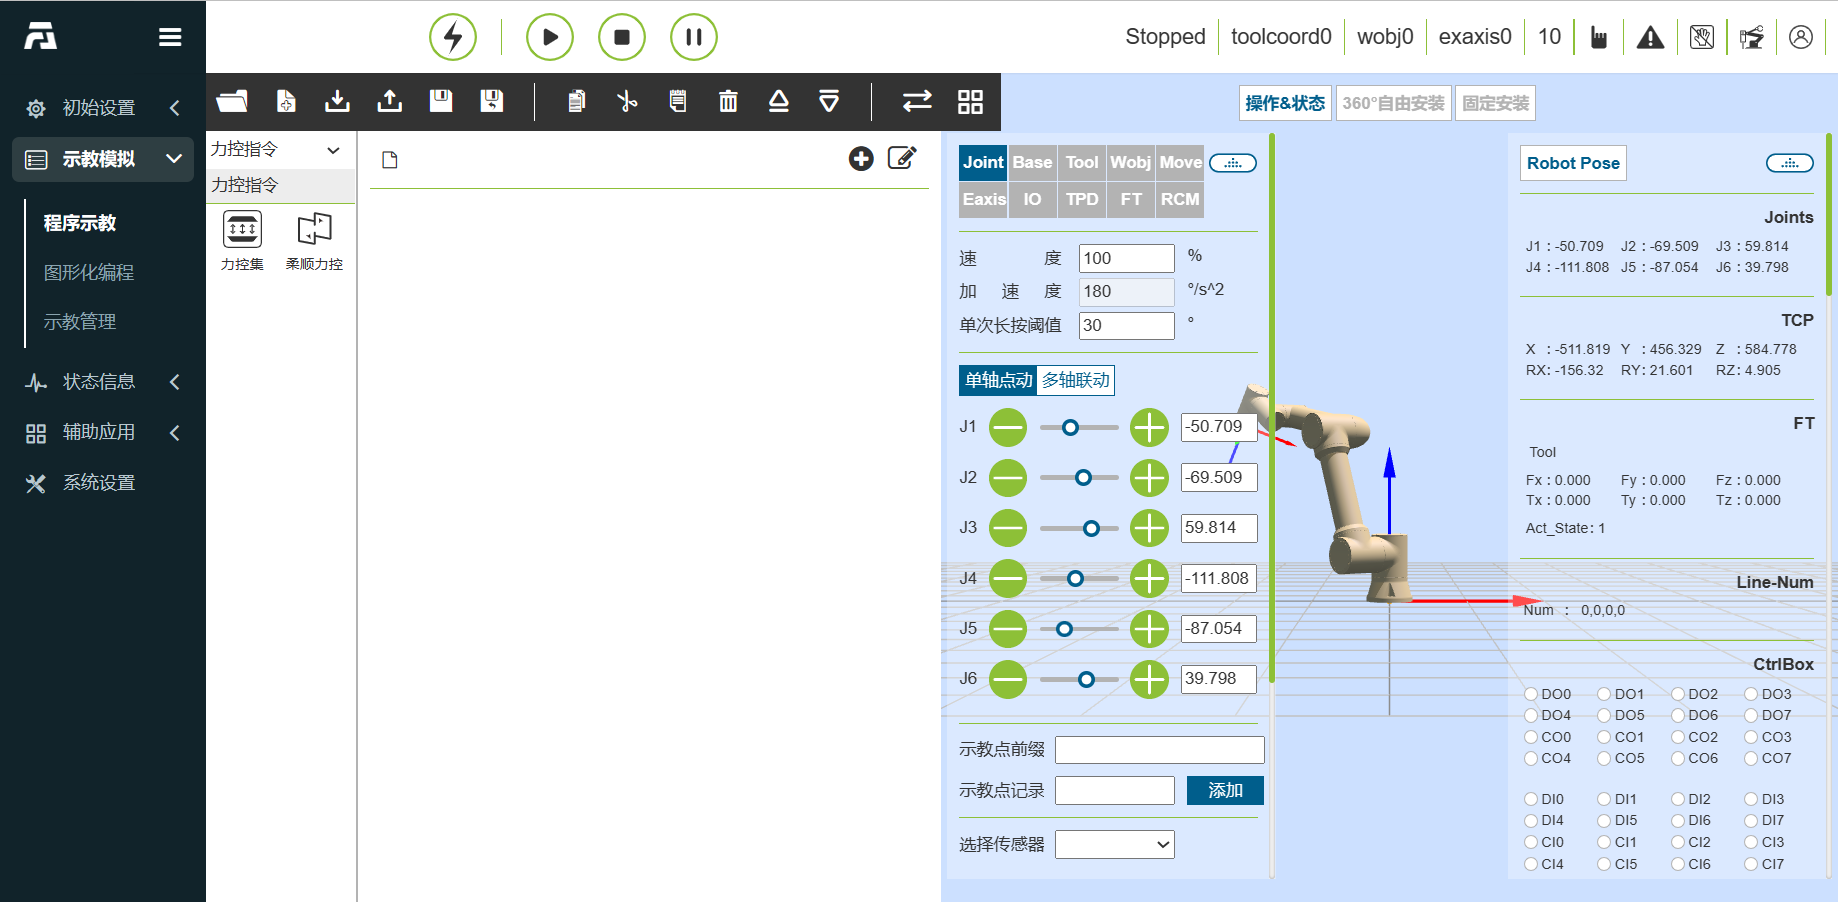
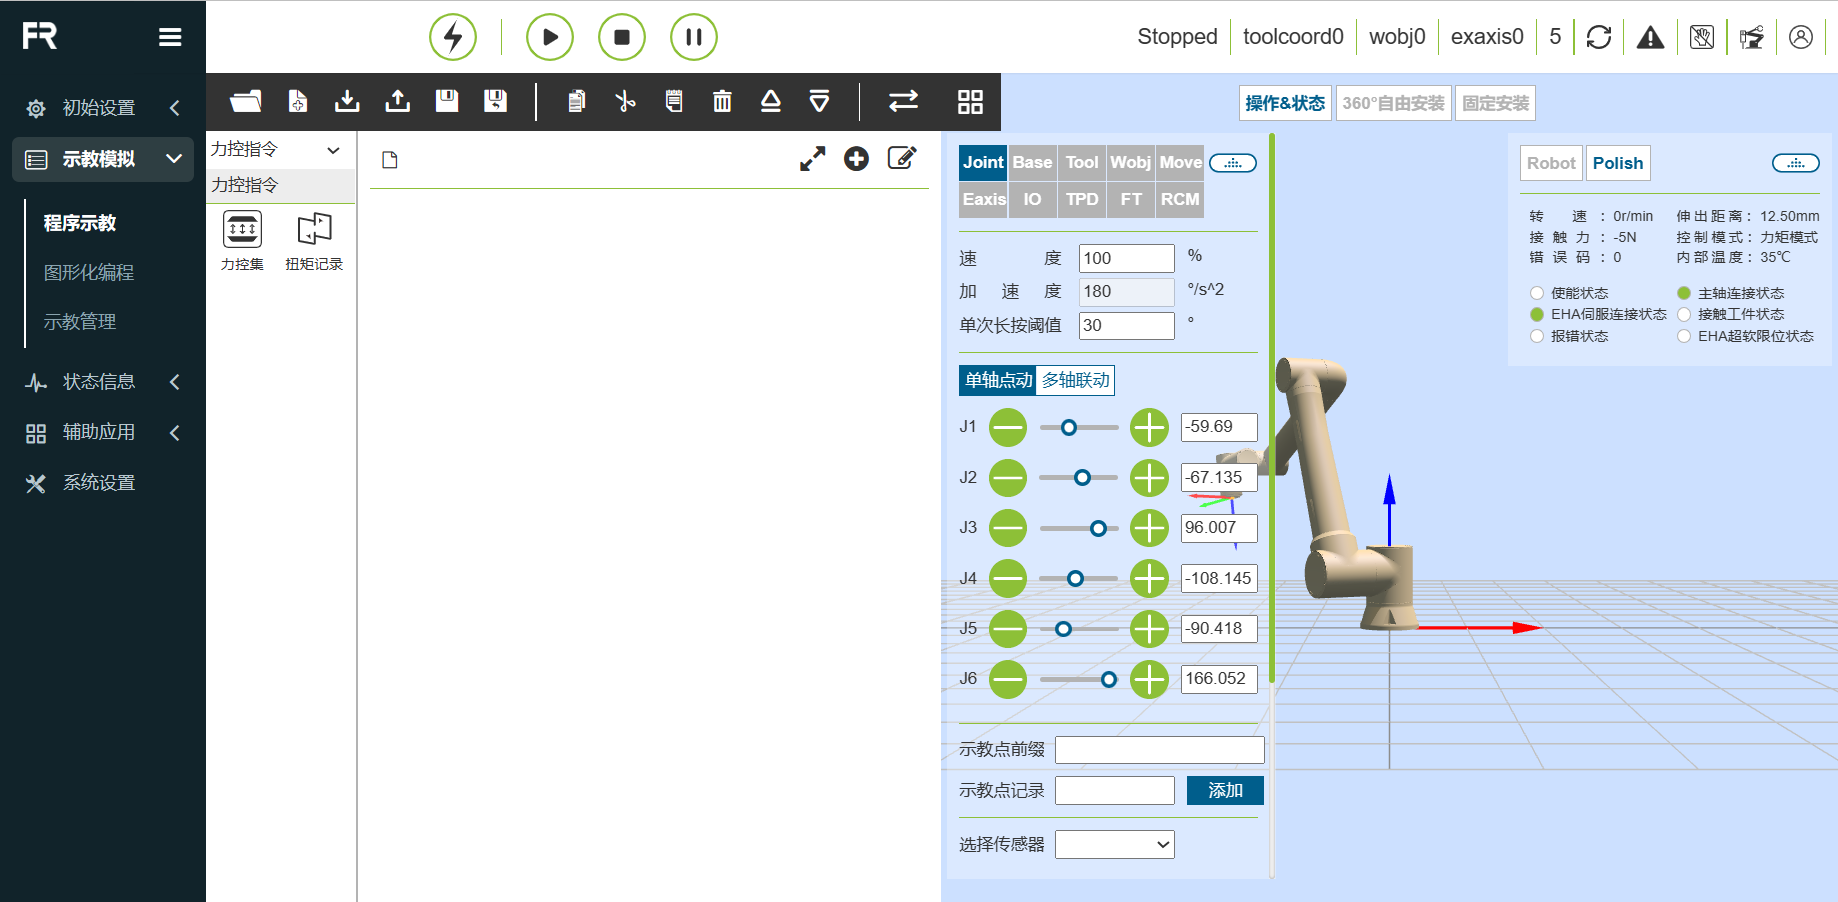
Update new teaching_pendant 8/17

diff --git a/source/CobotsManual/teaching_pendant_software.rst b/source/CobotsManual/teaching_pendant_software.rst
@@ -1831,9 +1831,9 @@ F/T命令
 Torque命令
 ++++++++++++++++
 
-点击“柔顺力控”图标进入Torque命令编辑界面
+点击“扭矩记录”图标进入Torque命令编辑界面
 
-该指令为力柔顺控制指令，通过该指令可以让机器人在力控训练过程中，当力大于一定值时，机械臂能够调整自己的轨迹使力减小；力小于一定值时，返向原轨迹，继续沿原先轨迹运动。
+该指令为扭矩记录指令，通过该指令可以让机器人在力控训练过程中，当力大于一定值时，机械臂能够调整自己的轨迹使力减小；力小于一定值时，返向原轨迹，继续沿原先轨迹运动。
 
 .. image:: teaching_pendant_software/138.png
    :width: 6in
